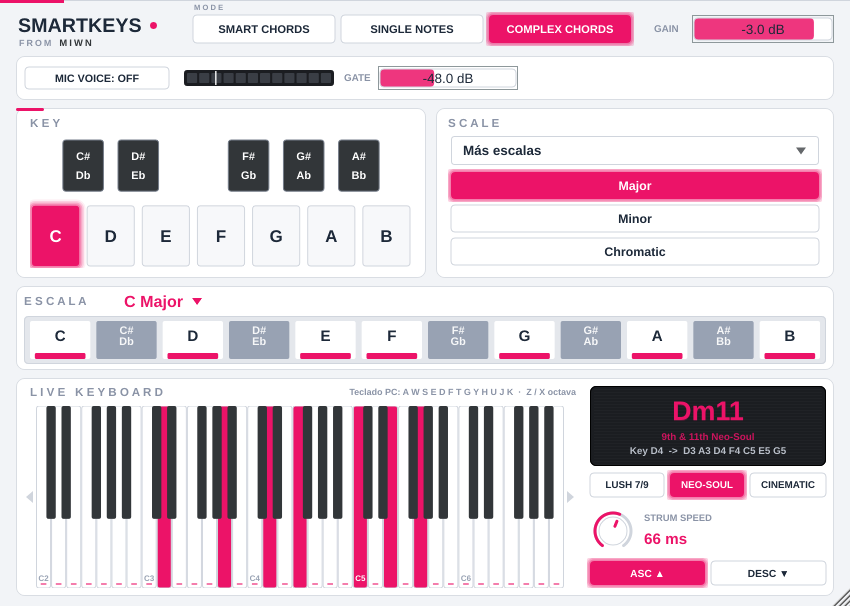
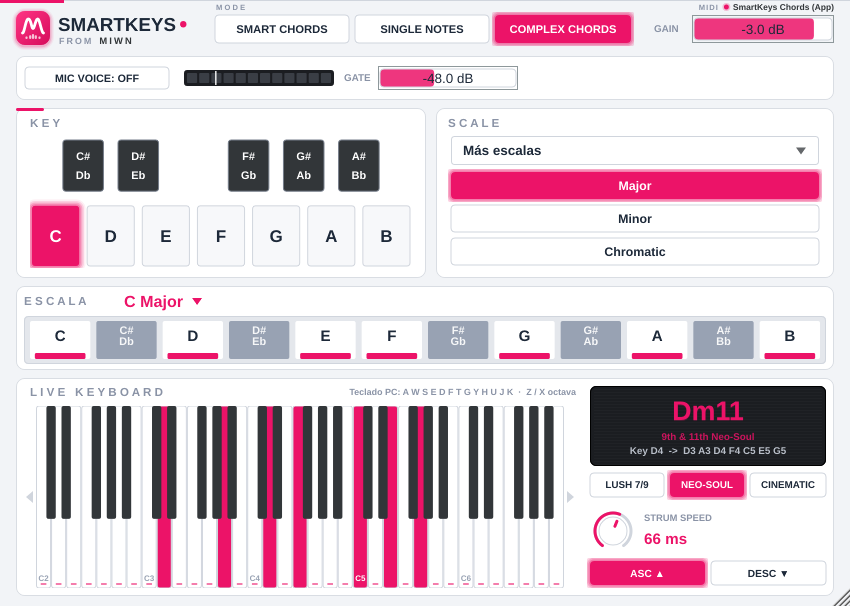
Teclado SmartKeys Chords: hilo de tiempo real para enviar cada nota a su hora; capturas 1.6
- El hilo del teclado es de tiempo real (como un reloj MIDI): se despierta a
  su hora aunque macOS agrupe temporizadores; si no se permite, prioridad alta.
- Prueba en macOS: la hora de cada nota es la del paquete CoreMIDI (cuándo la
  envió el teclado), sin el retraso de entrega del servidor MIDI de la máquina
  virtual de la CI.
- README: capturas con el logotipo de MIWN y el estado del teclado.

Claude-Session: https://claude.ai/code/session_01MxRAWnfchTYZ1WWk6Bw6r4

Changed region(s): [[0.2141, 0.0, 0.7341, 0.0891], [0.0, 0.0, 0.2141, 0.0891], [0.8259, 0.0, 0.9788, 0.0297]]

diff --git a/Tests/HostTests.cpp b/Tests/HostTests.cpp
@@ -1098,8 +1098,11 @@ private:
         if (m.getRawDataSize() != 3)
             return;
         const auto* d = m.getRawData();
+        // La hora del paquete CoreMIDI = cuándo lo envió el teclado (sin el retraso
+        // de entrega del servidor MIDI, que en una máquina virtual varía mucho)
+        const double sentMs = m.getTimeStamp() > 0.0 ? m.getTimeStamp() * 1000.0 : Time::getMillisecondCounterHiRes();
         const ScopedLock sl (lock);
-        received.push_back ({ Time::getMillisecondCounterHiRes(), d[0], d[1], d[2] });
+        received.push_back ({ sentMs, d[0], d[1], d[2] });
     }
 
     std::unique_ptr<MidiInput> input;

diff --git a/Source/ChordMidiPort.cpp b/Source/ChordMidiPort.cpp
@@ -85,8 +85,11 @@ void ChordMidiPort::open()
     output = juce::MidiOutput::createNewDevice (getDeviceName());
    #endif
 
+    // Hilo de tiempo real (como el de un reloj MIDI): se despierta a su hora aunque
+    // el sistema agrupe temporizadores. Si el sistema no lo permite, prioridad alta.
     if (isAvailable() && ! isThreadRunning())
-        startThread (juce::Thread::Priority::high);
+        if (! startRealtimeThread (juce::Thread::RealtimeOptions{}.withPeriodMs (1.0).withMaximumProcessingTimeMs (0.5)))
+            startThread (juce::Thread::Priority::high);
 }
 
 bool ChordMidiPort::retryOpen()

diff --git a/README.md b/README.md
@@ -20,6 +20,8 @@
 
 **Logotipo de MIWN.** Arriba a la izquierda, junto a `SMARTKEYS / FROM MIWN`: una placa rosa (`#EC1368`) con una onda armónica blanca que traza la "M" sobre las barras de nivel de un estudio. Es vectorial (`juce::Path`), así que se ve nítido con cualquier tamaño de ventana.
 
+![Logotipo de MIWN (ventana al doble de tamaño)](docs/miwn_logo.png)
+
 **`MIDI ● SmartKeys Chords`**, arriba a la derecha: el punto rosa indica que el teclado está activo. Pasa el ratón por encima para ver los pasos de FL Studio; un clic lo apaga o lo enciende (se guarda con el proyecto). En FL Studio y en la app viene encendido; en otros DAW empieza apagado, porque Logic o Ableton meterían cualquier teclado nuevo en la grabación de la pista. Si FL devuelve el teclado al propio SmartKeys, dice `· eco`: SmartKeys ignora ese eco y no se forma ningún bucle.
 
 La 1.5.0 trajo `MIC VOICE` sin sidechain (SmartKeys lee él mismo el micrófono de macOS), la marca MIWN, un único plugin (sin SmartKeys FX) y la salida MIDI fija en el canal 1. La 1.4.0 corrigió el cierre de FL Studio al cerrar la ventana de SmartKeys ([por qué se cerraba](#por-qué-se-cerraba-fl-studio-12--13)). La 1.3.0 dejó el `processBlock` sin asignaciones de memoria y trajo el STRUM de 0 a 200 ms; la 1.2.0, la salida MIDI siempre activa y la ventana redimensionable; la 1.1.0, la limpieza automática de versiones anteriores al instalar.
